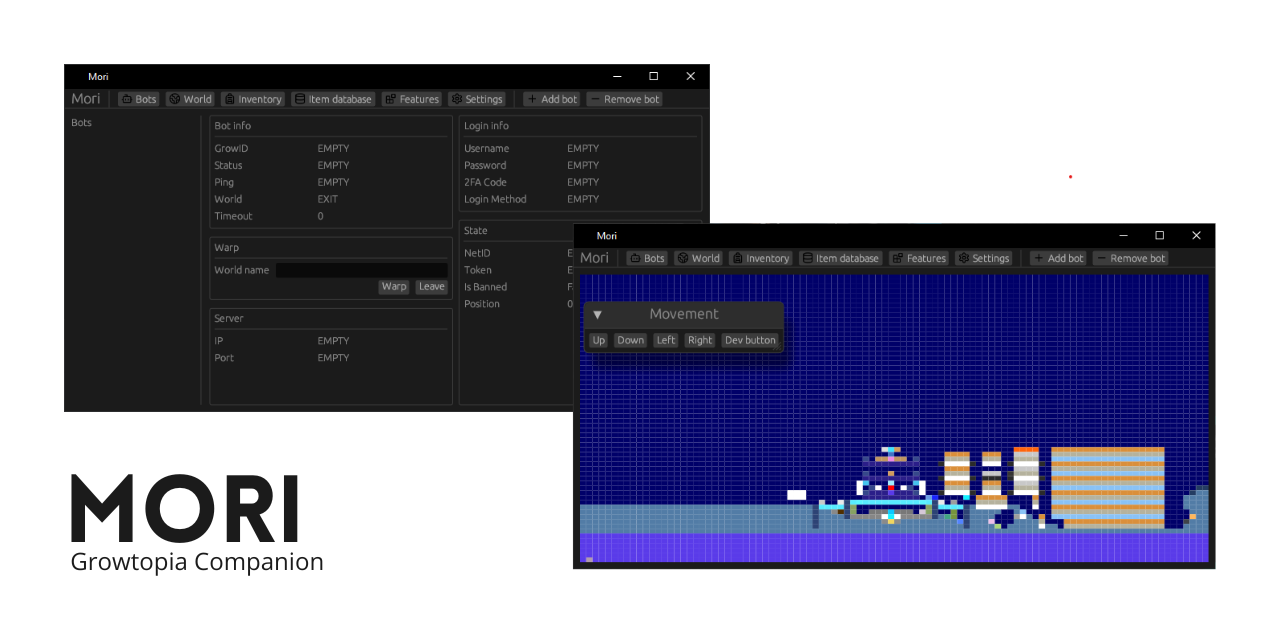
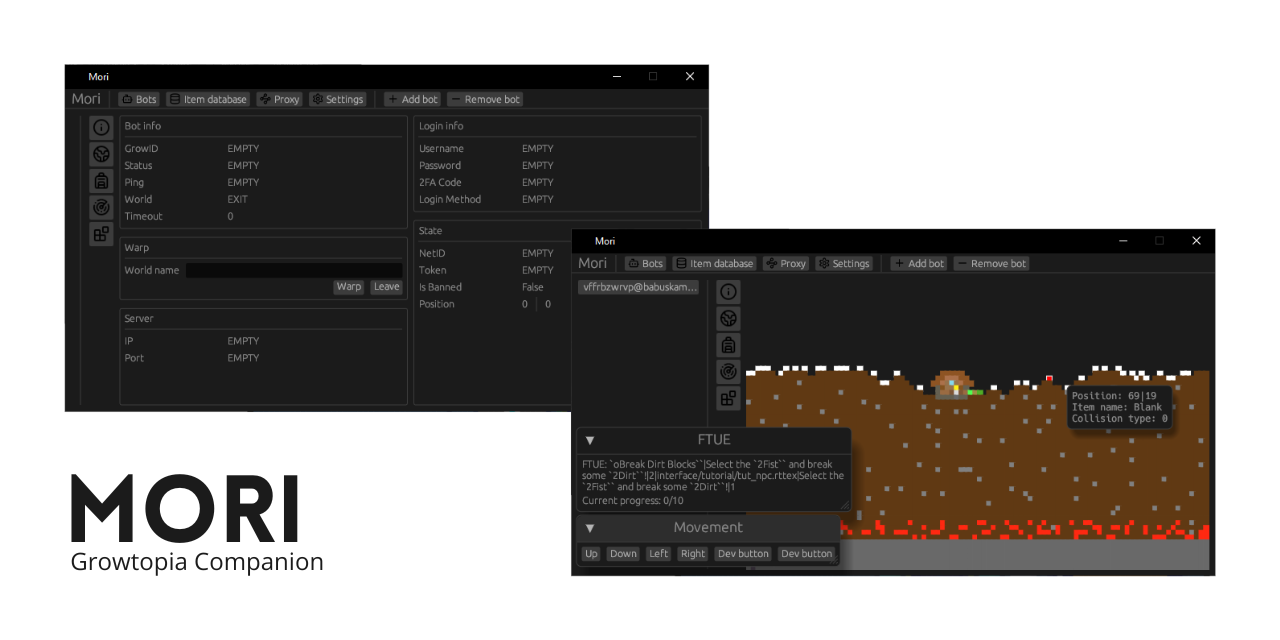
feat: socks5 support

diff --git a/src/bot/mod.rs b/src/bot/mod.rs
@@ -41,6 +41,7 @@ use crate::{
     },
 };
 use crate::bot::proxy::{SocketType, Socks5UdpSocket};
+use crate::manager::proxy_manager::ProxyManager;
 use crate::utils::config;
 
 static USER_AGENT: &str =
@@ -60,21 +61,38 @@ pub struct Bot {
     pub astar: Arc<RwLock<AStar>>,
     pub ftue: Arc<RwLock<FTUE>>,
     pub item_database: Arc<ItemDatabase>,
+    pub proxy_manager: Arc<RwLock<ProxyManager>>
 }
 
 impl Bot {
     pub fn new(
         bot_config: types::config::BotConfig,
         item_database: Arc<ItemDatabase>,
+        proxy_manager: Arc<RwLock<ProxyManager>>
     ) -> Self {
-        let proxy_address: Option<String> = None;
-        let socket: SocketType = if let Some(proxy) = proxy_address {
-            let proxy_addr = SocketAddr::from_str("").expect("Invalid proxy address");
-            let username = "".to_string();
-            let password = "".to_string();
+        let payload = utils::textparse::parse_and_store_as_vec(&bot_config.payload);
+        let mut proxy_address: Option<SocketAddr> = None;
+        let mut proxy_username = String::new();
+        let mut proxy_password = String::new();
+        if config::get_bot_use_proxy(payload[0].clone()) {
+            let mut proxy_manager = proxy_manager.write().unwrap();
+            let proxy_index = proxy_manager.proxies.iter().position(|proxy| proxy.whos_using.len() < 3);
+            if let Some(proxy_index) = proxy_index {
+                let proxy_data = proxy_manager.get_mut(proxy_index).unwrap();
+                proxy_data.whos_using.push(payload[0].clone());
+                proxy_address = Some(SocketAddr::from_str(&format!("{}:{}", proxy_data.proxy.ip, proxy_data.proxy.port)).unwrap());
+                proxy_username = proxy_data.proxy.username.clone();
+                proxy_password = proxy_data.proxy.password.clone();
+            }
+        }
 
-            let udp_datagram = Socks5Datagram::bind_with_password(proxy_addr, SocketAddr::from_str("0.0.0.0:0").unwrap(), &username, &password)
+        let socket: SocketType = if let Some(proxy) = proxy_address {
+            if proxy_username.is_empty() || proxy_password.is_empty() {
+                error!("Proxy username or password is empty");
+            }
+            let udp_datagram = Socks5Datagram::bind_with_password(proxy, SocketAddr::from_str("0.0.0.0:0").unwrap(), &proxy_username, &proxy_password)
                 .expect("Failed to bind SOCKS5 datagram");
+            info!("Binded to proxy");
             SocketType::Socks5(Socks5UdpSocket::new(udp_datagram))
         } else {
             let udp_socket = UdpSocket::bind(SocketAddrV4::new(Ipv4Addr::UNSPECIFIED, 0))
@@ -97,7 +115,7 @@ impl Bot {
 
         Self {
             info: Arc::new(RwLock::new(Info {
-                payload: utils::textparse::parse_and_store_as_vec(&bot_config.payload),
+                payload,
                 recovery_code: bot_config.recovery_code,
                 login_method: bot_config.login_method,
                 token: bot_config.token,
@@ -117,6 +135,7 @@ impl Bot {
             astar: Arc::new(RwLock::new(AStar::new(item_database.clone()))),
             ftue: Arc::new(RwLock::new(FTUE::default())),
             item_database,
+            proxy_manager
         }
     }
 }

diff --git a/src/gui/proxy_list.rs b/src/gui/proxy_list.rs
@@ -1,3 +1,4 @@
+use std::sync::{Arc, RwLock};
 use eframe::egui::{self, Ui};
 use paris::info;
 use crate::gui::add_proxy_dialog::AddProxyDialog;
@@ -7,7 +8,7 @@ use crate::manager::proxy_manager::ProxyManager;
 pub struct ProxyList {}
 
 impl ProxyList {
-    pub fn render(&mut self, ui: &mut Ui, proxy_manager: &mut ProxyManager, add_proxy_dialog: &mut AddProxyDialog, _ctx: &egui::Context) {
+    pub fn render(&mut self, ui: &mut Ui, proxy_manager: &Arc<RwLock<ProxyManager>>, add_proxy_dialog: &mut AddProxyDialog, _ctx: &egui::Context) {
         ui.vertical(|ui| {
             if ui.button("Add proxy").clicked() {
                 add_proxy_dialog.open = true;
@@ -23,7 +24,10 @@ impl ProxyList {
                     ui.label("Password");
                     ui.label("Status");
                     ui.end_row();
-                    let proxies = proxy_manager.proxies.clone();
+                    let proxies = {
+                        let proxy_manager = proxy_manager.read().unwrap();
+                        proxy_manager.proxies.clone()
+                    };
                     for (index, proxy_data) in proxies.iter().enumerate() {
                         let proxy = &proxy_data.proxy;
                         ui.label(proxy.ip.to_string());
@@ -37,11 +41,11 @@ impl ProxyList {
 
                         response.context_menu(|ui| {
                             if ui.button("Test").clicked() {
-                                proxy_manager.test(index);
+                                proxy_manager.write().unwrap().test(index);
                                 ui.close_menu();
                             }
                             if ui.button("Remove").clicked() {
-                                proxy_manager.remove(index);
+                                proxy_manager.write().unwrap().remove(index);
                                 ui.close_menu();
                             }
                         });

diff --git a/src/manager/bot_manager.rs b/src/manager/bot_manager.rs
@@ -2,18 +2,20 @@ use crate::bot::{self, Bot};
 use crate::types::config::BotConfig;
 use gtitem_r::structs::ItemDatabase;
 use paris::{error, info};
-use std::sync::Arc;
+use std::sync::{Arc, RwLock};
 use std::thread;
 use std::thread::{spawn, JoinHandle};
+use crate::manager::proxy_manager::ProxyManager;
 use crate::utils;
 
 pub struct BotManager {
     pub bots: Vec<(Arc<Bot>, JoinHandle<()>)>,
     pub items_database: Arc<ItemDatabase>,
+    pub proxy_manager: Arc<RwLock<ProxyManager>>
 }
 
 impl BotManager {
-    pub fn new() -> Self {
+    pub fn new(proxy_manager: Arc<RwLock<ProxyManager>>) -> Self {
         let item_database = {
             match gtitem_r::load_from_file("items.dat") {
                 Ok(item_database) => {
@@ -30,6 +32,7 @@ impl BotManager {
         Self {
             bots: vec![],
             items_database: Arc::new(item_database),
+            proxy_manager
         }
     }
 }
@@ -37,8 +40,9 @@ impl BotManager {
 impl BotManager {
     pub fn add_bot(&mut self, bot: BotConfig) {
         let items_database_clone = Arc::clone(&self.items_database);
+        let proxy_manager_clone = Arc::clone(&self.proxy_manager);
 
-        let new_bot = Arc::new(Bot::new(bot.clone(), items_database_clone));
+        let new_bot = Arc::new(Bot::new(bot.clone(), items_database_clone, proxy_manager_clone));
         let newbot_clone = Arc::clone(&new_bot);
 
         let handle = spawn(move || {

diff --git a/src/main.rs b/src/main.rs
@@ -71,7 +71,7 @@ struct App {
     add_bot_dialog: AddBotDialog,
     add_proxy_dialog: AddProxyDialog,
     bot_manager: Arc<RwLock<BotManager>>,
-    proxy_manager: ProxyManager,
+    proxy_manager: Arc<RwLock<ProxyManager>>,
     proxy_list: ProxyList,
     settings: Settings,
     bot_menu: BotMenu,
@@ -80,8 +80,8 @@ struct App {
 
 impl App {
     fn new(cc: &eframe::CreationContext<'_>) -> Self {
-        let mut bot_manager = Arc::new(RwLock::new(BotManager::new()));
-        let proxy_manager = ProxyManager::new();
+        let proxy_manager = Arc::new(RwLock::new(ProxyManager::new()));
+        let mut bot_manager = Arc::new(RwLock::new(BotManager::new(proxy_manager.clone())));
         let lua = Lua::new();
         let bots = utils::config::get_bots();
         for bot in bots.clone() {
@@ -124,7 +124,7 @@ impl eframe::App for App {
             } else if self.navbar.current_menu == "item_database" {
                 self.item_database.render(ui, &self.bot_manager, ctx);
             } else if self.navbar.current_menu == "proxy_list" {
-                self.proxy_list.render(ui, &mut self.proxy_manager, &mut self.add_proxy_dialog, ctx);
+                self.proxy_list.render(ui, &self.proxy_manager, &mut self.add_proxy_dialog, ctx);
             } else if self.navbar.current_menu == "settings" {
                 self.settings.render(ui, ctx);
             } else {

diff --git a/src/gui/add_proxy_dialog.rs b/src/gui/add_proxy_dialog.rs
@@ -1,3 +1,4 @@
+use std::sync::{Arc, RwLock};
 use eframe::egui::{self};
 use crate::manager::proxy_manager::ProxyManager;
 use crate::types::config;
@@ -10,7 +11,7 @@ pub struct AddProxyDialog {
 }
 
 impl AddProxyDialog {
-    pub fn render(&mut self, manager: &mut ProxyManager, ctx: &egui::Context) {
+    pub fn render(&mut self, manager: &Arc<RwLock<ProxyManager>>, ctx: &egui::Context) {
         if self.open {
             let mut close_dialog = false;
             egui::Window::new("Add proxy")
@@ -34,7 +35,7 @@ impl AddProxyDialog {
                             username: payload[2].clone(),
                             password: payload[3].clone(),
                         };
-                        manager.add(proxy_config);
+                        manager.write().unwrap().add(proxy_config);
                         self.payload.clear();
                         close_dialog = true;
                     }

diff --git a/src/manager/proxy_manager.rs b/src/manager/proxy_manager.rs
@@ -50,6 +50,10 @@ impl ProxyManager {
         self.proxies.get(index)
     }
 
+    pub fn get_mut(&mut self, index: usize) -> Option<&mut Proxy> {
+        self.proxies.get_mut(index)
+    }
+
     pub fn test(&mut self, index: usize) {
         let mut proxy_data = self.proxies.get_mut(index).unwrap();
         let proxy = proxy_data.proxy.clone();

diff --git a/README.md b/README.md
@@ -50,7 +50,7 @@ Any contribution would help alot.
 - [ ] Auto tutorial
 - [x] Auto clear world
 - [ ] Spam
-- [ ] Socks5 support
+- [x] Socks5 support
 
 ## Note
 This is for educational purposes only. I am not responsible for any misuse of this tool. You also not allowed to sell or re-upload this tool as your own without my permission. use it at your own risk.
